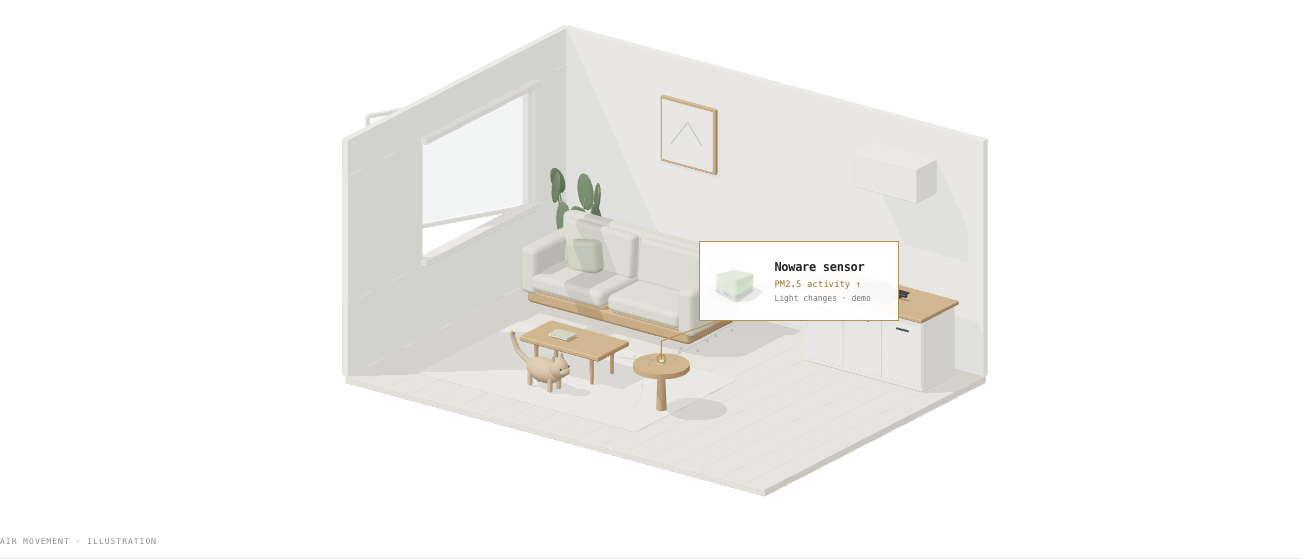
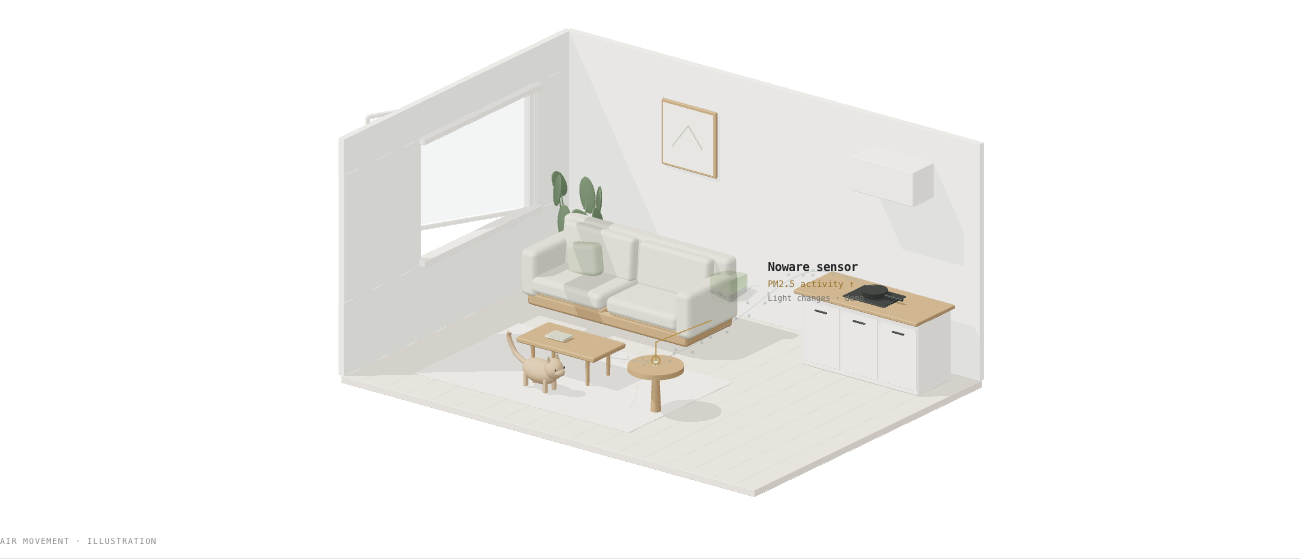
Stabilize room loading, callout anchoring and canvas resize

diff --git a/src/purpose/room.js b/src/purpose/room.js
@@ -6,7 +6,7 @@ import {roomFlowPaths,flowActivity,detectionPose,illustrationDuration} from './f
 const smooth=x=>{x=T.MathUtils.clamp(x,0,1);return x*x*(3-2*x)};
 export async function createRoom(host,state,onReady){
  const renderer=new T.WebGLRenderer({antialias:true,alpha:true,preserveDrawingBuffer:true});renderer.setPixelRatio(Math.min(devicePixelRatio,1.7));renderer.setClearColor('#fff',0);renderer.toneMapping=T.ACESFilmicToneMapping;renderer.toneMappingExposure=1;renderer.shadowMap.enabled=true;renderer.shadowMap.type=T.PCFShadowMap;
- const scene=new T.Scene(),camera=new T.OrthographicCamera(-3,3,2,-2,.01,60);let resizeObserver,observer;let dead=false,visible=false,raf=0,last=performance.now(),time=0,progress=state.progress;
+ const scene=new T.Scene(),camera=new T.OrthographicCamera(-3,3,2,-2,.01,60);let resizeObserver,observer;let dead=false,visible=false,raf=0,last=performance.now(),time=0,progress=state.progress,renderWidth=0,renderHeight=0;
  const envMaker=new T.PMREMGenerator(renderer),studio=new RoomEnvironment(),env=envMaker.fromScene(studio,.04);scene.environment=env.texture;scene.environmentIntensity=.35;studio.dispose();envMaker.dispose();
  const materials={wall:new T.MeshStandardMaterial({color:'#f7f5ef',roughness:.9}),floor:new T.MeshStandardMaterial({color:'#e5ddd0',roughness:.82}),fabric:new T.MeshStandardMaterial({color:'#c7c6b9',roughness:.96}),pillow:new T.MeshStandardMaterial({color:'#b0b6a0',roughness:1}),wood:new T.MeshStandardMaterial({color:'#a98b68',roughness:.65}),ivory:new T.MeshStandardMaterial({color:'#f4f0e6',roughness:.7}),metal:new T.MeshStandardMaterial({color:'#5e6463',metalness:.7,roughness:.32}),glass:new T.MeshPhysicalMaterial({color:'#e6eff3',transmission:.25,transparent:true,opacity:.25,roughness:.2}),leaf:new T.MeshStandardMaterial({color:'#6d8065',roughness:.9}),fur:new T.MeshStandardMaterial({color:'#b89d80',roughness:1})};
  function box(w,h,d,x,y,z,mat,r=.025,parent=scene){const o=new T.Mesh(new RoundedBoxGeometry(w,h,d,2,Math.min(r,w/3,h/3,d/3)),mat);o.position.set(x,y,z);o.castShadow=o.receiveShadow=true;parent.add(o);return o}
@@ -57,7 +57,11 @@ export async function createRoom(host,state,onReady){
  const diffuser=product.getObjectByName('diffuser');diffuser.material.dispose();diffuser.material=new T.MeshPhysicalMaterial({color:'#c8dfb9',roughness:.5,transmission:.08,thickness:.0013,emissive:'#91d980',emissiveIntensity:.3});
  const canvas=renderer.domElement;canvas.setAttribute('role','img');canvas.setAttribute('aria-label','A shared living room with a sofa, cat, openable window, kitchen and Noware on a side table. Air movement is illustrated.');host.append(canvas);
  const anchor=host.parentElement.querySelector('.room-device-label'),leader=host.parentElement.querySelector('.room-device-leader');
- function render(now){raf=0;if(dead||!visible||document.hidden)return;const dt=Math.min(.06,(now-last)/1000);last=now;if(state.mode!=='paused')time+=dt;if(state.mode==='play'&&!state.reduced){state.progress=Math.min(.999,state.progress+dt/illustrationDuration);if(state.progress>=.999)state.mode='paused'}progress=state.reduced?state.progress:T.MathUtils.damp(progress,state.progress,9,dt);
+ function render(now){raf=0;if(dead||!visible||document.hidden)return;
+ // Resize and redraw in the same frame; setSize clears the drawing buffer.
+ const width=host.clientWidth,height=host.clientHeight;if(!width||!height)return;
+ if(width!==renderWidth||height!==renderHeight){renderer.setSize(width,height,false);renderWidth=width;renderHeight=height}
+ const dt=Math.max(0,Math.min(.06,(now-last)/1000));last=now;if(state.mode!=='paused')time+=dt;if(state.mode==='play'&&!state.reduced){state.progress=Math.min(.999,state.progress+dt/illustrationDuration);if(state.progress>=.999)state.mode='paused'}progress=state.reduced?state.progress:T.MathUtils.damp(progress,state.progress,9,dt);
  const chapter=Math.min(4,Math.floor(progress*5)),local=progress*5-chapter,activity=smooth(local*2);
  const walking=chapter===1?activity:chapter>1?1:0;cat.position.set(T.MathUtils.lerp(-1.7,-.78,walking),.025,1.03);cat.rotation.y=-.13;for(let i=0;i<paws.length;i++)paws[i].rotation.z=chapter===1&&!state.reduced?Math.sin(time*6+i%2*Math.PI)*.22*(1-activity):0;
  pillow.rotation.z=.18+(chapter===2?Math.sin(local*Math.PI*4)*.16*Math.sin(local*Math.PI):0);pillow.position.y=.59+(chapter===2?Math.sin(local*Math.PI*2)**2*.11:0);sash.rotation.y=chapter===3?-.48*activity:chapter>3?-.48:0;
@@ -75,7 +79,7 @@ export async function createRoom(host,state,onReady){
  }
  particleGeo.attributes.position.needsUpdate=true;particleGeo.attributes.aOpacity.needsUpdate=true;
  pulse.scale.setScalar(1+(state.reduced?0:(time*.65)%1)*1.8);pulse.material.opacity=detection.sensing*(state.reduced?.65:.7*(1-(time*.65)%1));
- const target=new T.Vector3(-.15,1.05,0),aspect=host.clientWidth/host.clientHeight,span=innerWidth<700?6.4:6;const vertical=Math.max(span/aspect,5.7);camera.left=-vertical*aspect/2;camera.right=vertical*aspect/2;camera.top=vertical/2;camera.bottom=-vertical/2;camera.position.set(5,4.4,6.8);if(!state.reduced){camera.position.x-=progress*.3;target.z+=progress*.07}camera.lookAt(target);camera.updateProjectionMatrix();camera.updateMatrixWorld(true);
+ const target=new T.Vector3(-.15,1.05,0),aspect=host.clientWidth/host.clientHeight,span=innerWidth<700?6.4:6;const vertical=Math.max(span/aspect,5.7);camera.left=-vertical*aspect/2;camera.right=vertical*aspect/2;camera.top=vertical/2;camera.bottom=-vertical/2;camera.position.set(5,4.4,6.8);camera.lookAt(target);camera.updateProjectionMatrix();camera.updateMatrixWorld(true);
  const point=new T.Vector3(.53,.57,.8).project(camera),px=(point.x*.5+.5)*host.clientWidth,py=(-point.y*.5+.5)*host.clientHeight;
  const labelX=Math.min(host.clientWidth-anchor.offsetWidth-12,px+38),labelY=Math.max(12,py-118);
  anchor.style.left=`${labelX}px`;anchor.style.top=`${labelY}px`;
@@ -87,7 +91,7 @@ export async function createRoom(host,state,onReady){
  if((!state.reduced&&state.mode!=='paused')||Math.abs(progress-state.progress)>.001)raf=requestAnimationFrame(render);
  }
  function wake(){if(!raf&&!dead&&visible&&!document.hidden){last=performance.now();raf=requestAnimationFrame(render)}}
- function resize(){if(!host.clientWidth||!host.clientHeight)return;renderer.setSize(host.clientWidth,host.clientHeight);wake()}
+ function resize(){wake()}
  resizeObserver=new ResizeObserver(resize);resizeObserver.observe(host);observer=new IntersectionObserver(([e])=>{visible=e.isIntersecting;if(visible)wake();else{cancelAnimationFrame(raf);raf=0}},{rootMargin:'50px'});observer.observe(host);
  function visibility(){if(document.hidden){cancelAnimationFrame(raf);raf=0}else wake()}document.addEventListener('visibilitychange',visibility);resize();
  function dispose(){dead=true;cancelAnimationFrame(raf);resizeObserver?.disconnect();observer?.disconnect();document.removeEventListener('visibilitychange',visibility);const gs=new Set(),ms=new Set(),ts=new Set();scene.traverse(o=>{if(o.geometry)gs.add(o.geometry);for(const m of Array.isArray(o.material)?o.material:o.material?[o.material]:[]){ms.add(m);for(const v of Object.values(m))if(v?.isTexture)ts.add(v)}});gs.forEach(g=>g.dispose());ms.forEach(m=>m.dispose());ts.forEach(t=>t.dispose());env.dispose();renderer.dispose();renderer.domElement.remove()}

diff --git a/src/purpose/purpose.css b/src/purpose/purpose.css
@@ -26,3 +26,7 @@
 .room-unavailable .room-device-leader{display:none}
 .purpose-story[data-detection=signal] .room-device-leader{color:#b69251}
 @media(max-width:700px){.room-device-label{width:177px;padding:5px;gap:5px;transform:none}.room-device-label>img{width:48px;height:48px}.room-device-label span{font-size:11px}.room-device-label strong{font-size:8px}.room-device-label small{font-size:8px}}
+
+/* Never show an unpositioned callout over the loading poster. */
+.room-stage:not(.room-ready) .room-device-label,
+.room-stage:not(.room-ready) .room-device-leader{visibility:hidden}

diff --git a/scripts/purpose/HANDOFF.md b/scripts/purpose/HANDOFF.md
@@ -30,3 +30,6 @@ The owner subsequently clarified that PM2.5 sensing is still being developed, wi
 Removed the room’s 250vh scroll track, sticky positioning, and Follow scroll mode. This section now occupies its natural content height. Playback and chapters remain independent of scrolling, with offscreen pause and reduced-motion support. Restored the fuller overlapping ambient trails from before the PM2.5 update. The existing hero choreography is unchanged.
 
 Customer-facing copy now uses design-intent language and a discreet Interactive demo label instead of development-status wording. Engineering status is unchanged: the owner’s particle sensor selection/specifications are not finalized. Do not introduce numerical accuracy, certification, or medical claims without evidence.
+
+### Loading and layout stability
+`node scripts/purpose/stability.mjs` delays GLB loading, verifies the callout stays hidden until its first correctly positioned frame, checks its stationary position during animation, and exercises mobile/desktop resizing. Frame deltas are clamped nonnegative to prevent early rAF timestamps from producing negative particle-path parameters. Canvas resize and redraw happen in the same frame, and room camera drift is removed.
